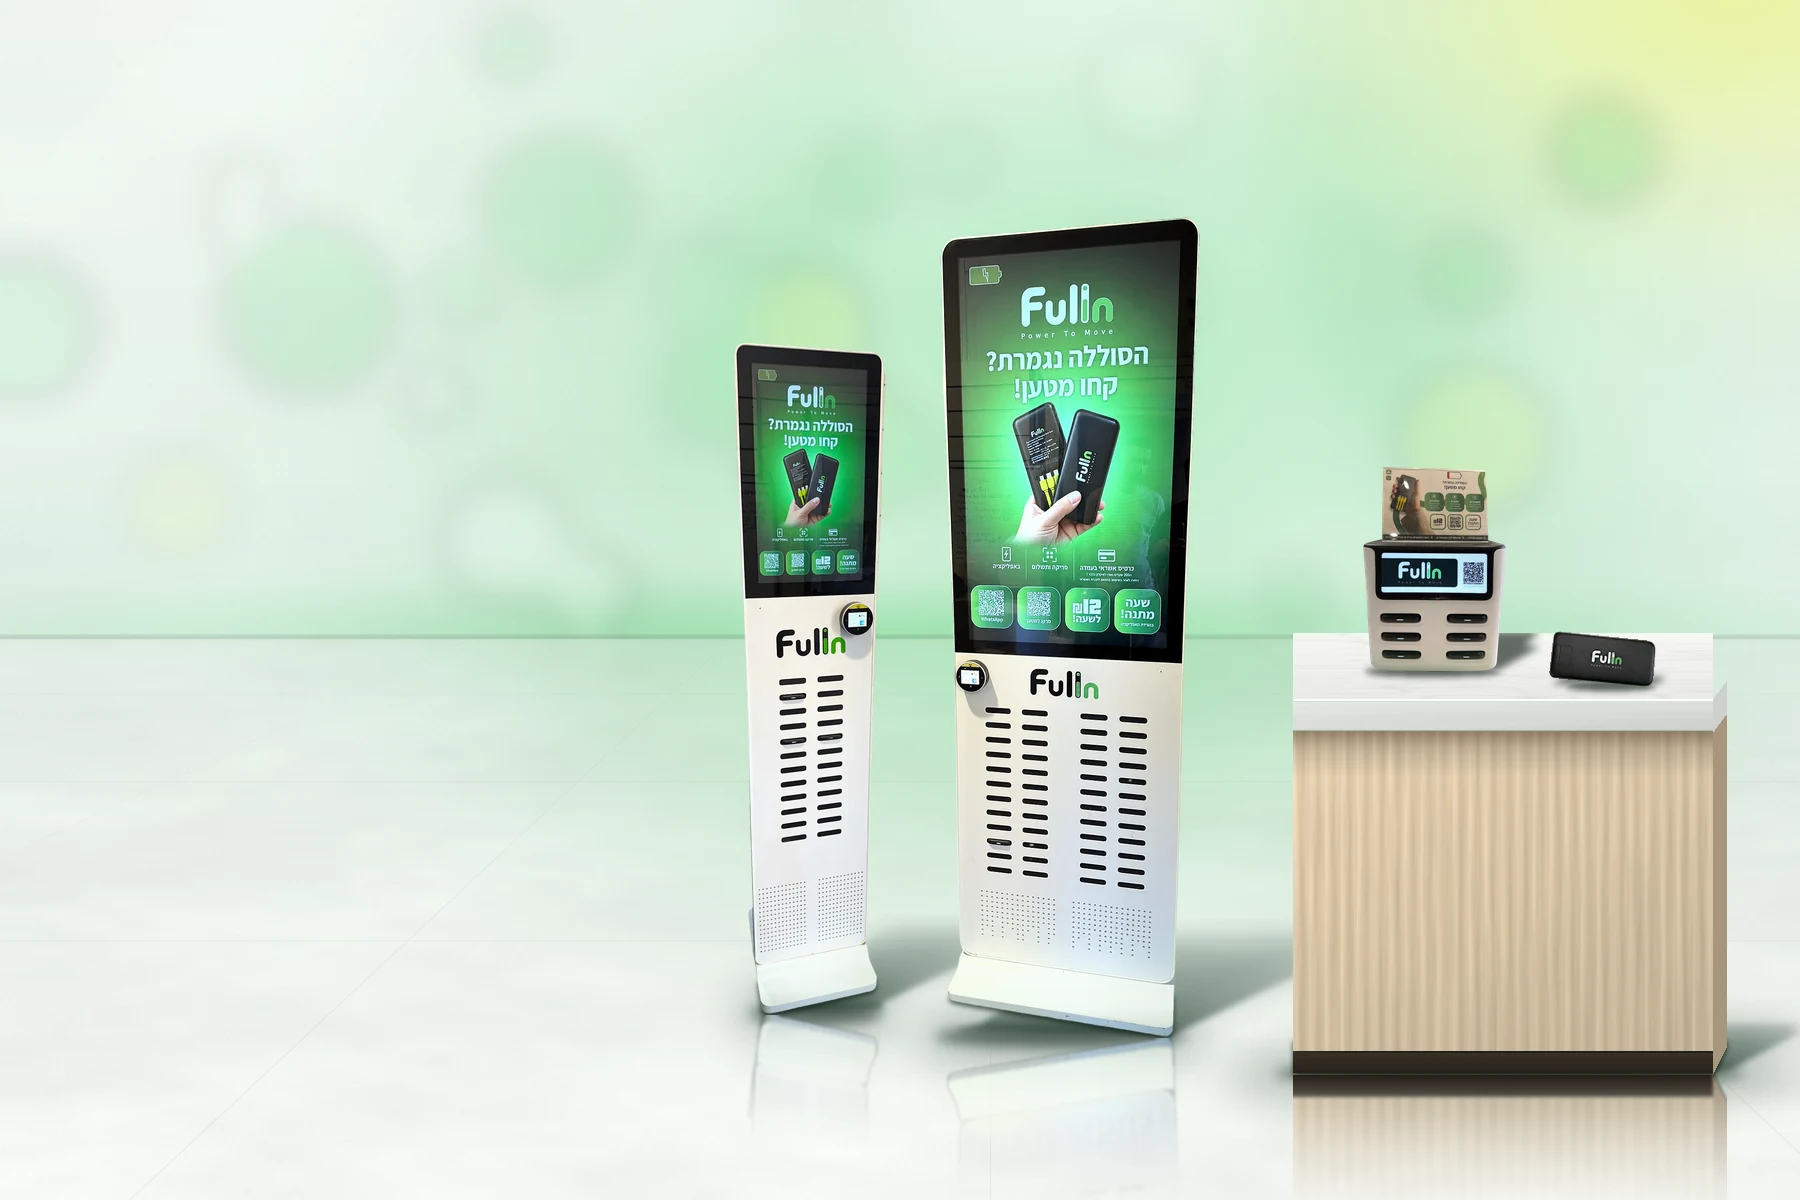
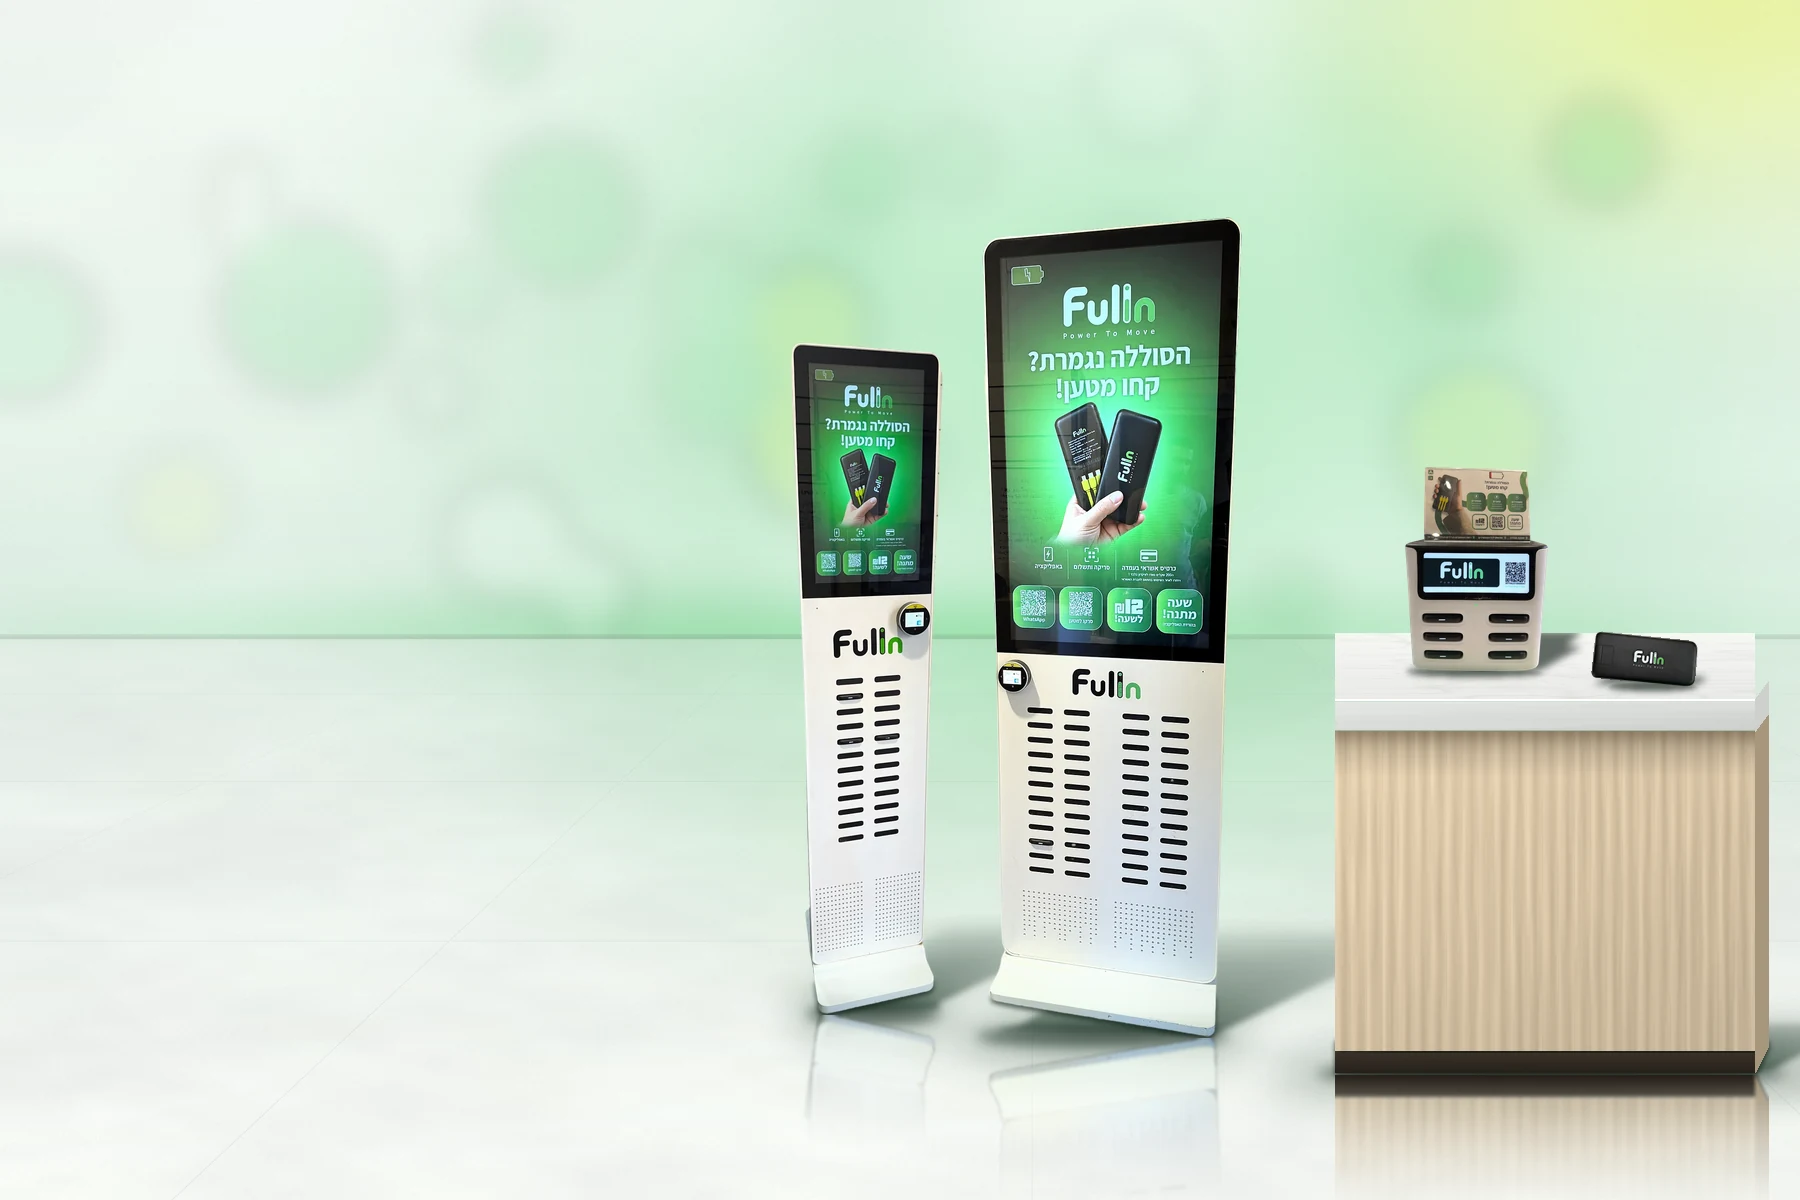
WIP: grounded hero and network cards
Claude-Session: https://claude.ai/code/session_01B8ZM9s4HvvSroEMfWVw26Q

Changed region(s): [[0.4044, 0.185, 1.0, 0.9867]]

diff --git a/new-site/css/hero.css b/new-site/css/hero.css
@@ -99,11 +99,11 @@
    One composed image per scene: shared floor + wall + key light, grounded products.
    Motion = transform/opacity only: slow zoom of the scene (anchored on the floor), counter-drifting bokeh, pulsing screen glow.
    =================================================================== */
-.hero__stage { position: relative; container-type: size; order: 2; align-self: stretch; inline-size: 100vw; margin-inline: calc(50% - 50vw); margin-block: .5rem -2.4rem; aspect-ratio: 1000 / 1010; overflow: hidden;
+.hero__stage { position: relative; container-type: size; order: 2; align-self: stretch; inline-size: 100vw; margin-inline: calc(50% - 50vw); margin-block: -1.2rem -2.4rem; aspect-ratio: 1000 / 960; overflow: hidden; pointer-events: none;
   -webkit-mask-image: linear-gradient(180deg, transparent 0, #000 14%, #000 86%, transparent 100%); mask-image: linear-gradient(180deg, transparent 0, #000 14%, #000 86%, transparent 100%); }
-.hero--b .hero__stage { aspect-ratio: 4 / 5; }
+@media (max-width: 959px) { .hero--b .hero__stage { aspect-ratio: 4 / 5; } }
 .scene { --ar: 1.5; position: absolute; inset-block-end: 0; inset-inline-end: 0; inline-size: max(100cqw, calc(100cqh * var(--ar))); aspect-ratio: var(--ar); }
-.scene--a { --ar: .990; }
+.scene--a { --ar: 1.0417; }
 .scene--b { --ar: .8; inline-size: 100cqw; }
 .hero:not(.hero--b) .scene--b, .hero--b .scene--a { display: none; }
 .scene__zoom { position: absolute; inset: 0; transform-origin: 50% 88%; animation: scenezoom 34s ease-in-out infinite alternate; will-change: transform; }
@@ -137,13 +137,17 @@
 .scene--b .scene__fade { position: absolute; inset: 0; -webkit-mask-image: linear-gradient(to left, transparent 0, #000 30%); mask-image: linear-gradient(to left, transparent 0, #000 30%); }
 :root[dir="ltr"] .scene--b .scene__fade { -webkit-mask-image: linear-gradient(to right, transparent 0, #000 30%); mask-image: linear-gradient(to right, transparent 0, #000 30%); }
 .fx--scrb { inset-inline-start: calc(var(--b-cx) - 13%); inset-block-start: calc(var(--b-top) + 2%); inline-size: 26%; block-size: 22%; border-radius: 12%; }
-.scene__badge { inset-block-start: auto; inset-block-end: 17%; inset-inline-start: auto; inset-inline-end: 4%; z-index: 3; }
+.scene .scene__badge { inset-block-start: auto; inset-block-end: 17%; inset-inline-start: auto; inset-inline-end: 4%; z-index: 3; }
 .hero--b .hero__glow { opacity: .65; }
 
 @media (min-width: 960px) {
-  .hero__stage { position: absolute; inset: 0; z-index: -1; inline-size: auto; margin: 0; aspect-ratio: auto; overflow: hidden; -webkit-mask-image: linear-gradient(180deg, #000 0, #000 88%, transparent 100%); mask-image: linear-gradient(180deg, #000 0, #000 88%, transparent 100%); }
-  .scene--a { --ar: 1.5; }
-  .scene--b { --ar: .8; inline-size: auto; block-size: 100cqh; inset-inline-end: 2%; }
-  .scene__badge { inset-block-end: 14%; }
+  .hero__stage { position: absolute; inset: 0; z-index: -1; inline-size: auto; margin: 0; aspect-ratio: auto; overflow: hidden; -webkit-mask-image: linear-gradient(180deg, transparent 0, #000 16%, #000 90%, transparent 100%); mask-image: linear-gradient(180deg, transparent 0, #000 16%, #000 90%, transparent 100%); }
+  .scene--a { --ar: 1.5; inline-size: 100cqw; }
+  .scene--b { --ar: .8; inline-size: auto; block-size: 92cqh; inset-inline-end: 0; -webkit-mask-image: linear-gradient(180deg, transparent 0, #000 10%); mask-image: linear-gradient(180deg, transparent 0, #000 10%); }
+  .scene .scene__badge { inset-block-end: 14%; }
 }
 @media (prefers-reduced-motion: reduce) { .scene__zoom, .bk, .fx { animation: none !important; } .fx--scr { opacity: .5; } }
+
+@media (min-width: 960px) { .hero__title { font-size: clamp(3.4rem, 1rem + 4.6vw, 5.2rem); } }
+
+@media (max-width: 959px) { .hero__eyebrow, .hero__title, .hero__sub, .hero__cta { position: relative; z-index: 2; } }

diff --git a/new-site/css/scene-pos.css b/new-site/css/scene-pos.css
@@ -1,5 +1,5 @@
 /* generated by tools/compose.py scenes: screen-glow positions, percent of each hero scene image */
-:root{--a-t48x:40.56%;--a-t48y:32.43%;--a-t48w:21.67%;--a-t48h:42.37%;--a-t24x:54.97%;--a-t24y:40.82%;--a-t24w:12.75%;--a-t24h:34.72%;--a-floory:86.25%;}
-:root[dir="ltr"]{--a-t48x:59.44%;--a-t48y:32.43%;--a-t48w:21.67%;--a-t48h:42.37%;--a-t24x:44.97%;--a-t24y:40.82%;--a-t24w:12.75%;--a-t24h:34.72%;--a-floory:86.25%;}
-@media (max-width:959px){:root,:root[dir="ltr"]{--a-t48x:62.50%;--a-t48y:36.51%;--a-t48w:31.20%;--a-t48h:40.27%;--a-t24x:83.25%;--a-t24y:44.39%;--a-t24w:18.45%;--a-t24h:33.03%;--a-floory:87.62%;}}
+:root{--a-t48x:38.22%;--a-t48y:32.43%;--a-t48w:21.67%;--a-t48h:42.37%;--a-t24x:51.81%;--a-t24y:40.82%;--a-t24w:12.75%;--a-t24h:34.72%;--a-floory:86.25%;}
+:root[dir="ltr"]{--a-t48x:61.78%;--a-t48y:32.43%;--a-t48w:21.67%;--a-t48h:42.37%;--a-t24x:48.14%;--a-t24y:40.82%;--a-t24w:12.75%;--a-t24h:34.72%;--a-floory:86.25%;}
+@media (max-width:959px){:root,:root[dir="ltr"]{--a-t48x:62.50%;--a-t48y:34.77%;--a-t48w:31.20%;--a-t48h:42.37%;--a-t24x:82.05%;--a-t24y:43.06%;--a-t24w:18.45%;--a-t24h:34.75%;--a-floory:88.54%;}}
 :root{--b-cx:61.06%;--b-top:4.23%;}

diff --git a/new-site/index.html b/new-site/index.html
@@ -128,11 +128,11 @@
       <div class="scene scene--a">
         <div class="scene__zoom">
           <picture class="scene__pic scene__pic--rtl">
-            <source media="(max-width: 959px)" srcset="assets/hero/hero-a-m.webp" width="1000" height="1010">
+            <source media="(max-width: 959px)" srcset="assets/hero/hero-a-m.webp" width="1000" height="960">
             <img src="assets/hero/hero-a.webp" width="1800" height="1200" alt="" decoding="async" fetchpriority="high">
           </picture>
           <picture class="scene__pic scene__pic--ltr">
-            <source media="(max-width: 959px)" srcset="assets/hero/hero-a-m.webp" width="1000" height="1010">
+            <source media="(max-width: 959px)" srcset="assets/hero/hero-a-m.webp" width="1000" height="960">
             <img src="assets/hero/hero-a-ltr.webp" width="1800" height="1200" alt="" decoding="async" loading="lazy">
           </picture>
           <i class="fx fx--halo fx--halo48"></i><i class="fx fx--halo fx--halo24"></i>

diff --git a/new-site/_partials/hero.html b/new-site/_partials/hero.html
@@ -48,11 +48,11 @@
       <div class="scene scene--a">
         <div class="scene__zoom">
           <picture class="scene__pic scene__pic--rtl">
-            <source media="(max-width: 959px)" srcset="assets/hero/hero-a-m.webp" width="1000" height="1010">
+            <source media="(max-width: 959px)" srcset="assets/hero/hero-a-m.webp" width="1000" height="960">
             <img src="assets/hero/hero-a.webp" width="1800" height="1200" alt="" decoding="async" fetchpriority="high">
           </picture>
           <picture class="scene__pic scene__pic--ltr">
-            <source media="(max-width: 959px)" srcset="assets/hero/hero-a-m.webp" width="1000" height="1010">
+            <source media="(max-width: 959px)" srcset="assets/hero/hero-a-m.webp" width="1000" height="960">
             <img src="assets/hero/hero-a-ltr.webp" width="1800" height="1200" alt="" decoding="async" loading="lazy">
           </picture>
           <i class="fx fx--halo fx--halo48"></i><i class="fx fx--halo fx--halo24"></i>

diff --git a/new-site/tools/compose.py b/new-site/tools/compose.py
@@ -130,7 +130,7 @@ def lineup(room, s, ox, base48, mirror=False, W=1800, with_pb=True):
     out['counter'] = (cx, ytop, Lc.width, Lc.height)
     # shadows of both towers fall right/back: draw far-to-near so nothing is covered wrongly: 24 (back) -> 48 -> counter
     r24 = h24 / t24.height; i24 = t24.resize((int(t24.width * r24), h24), Image.LANCZOS)
-    b24 = base48 - int(23 * s); x24 = int(X(960) - i24.width / 2)
+    b24 = base48 - int(23 * s); x24 = int(X(945) - i24.width / 2)
     r48 = h48 / t48.height; i48 = t48.resize((int(t48.width * r48), h48), Image.LANCZOS)
     x48 = int(X(700) - i48.width / 2)
     order = [('t24', i24, x24, b24), ('t48', i48, x48, base48)]
@@ -144,9 +144,9 @@ def lineup(room, s, ox, base48, mirror=False, W=1800, with_pb=True):
 
 def hero_a(W=1800, H=1200, mirror=False, mobile=False):
     if mobile:
-        W, H = 1000, 1010; s = .80; ox = 65; base48 = 885
+        W, H = 1000, 960; s = .80; ox = 65; base48 = 850
     else:
-        s = 1.0; ox = 30; base48 = 1035
+        s = 1.0; ox = -12; base48 = 1035
     h48 = int(H48_D * s); cam = 1.4
     y_h = base48 - h48 * cam / 1.8
     wall_y = int(base48 - (base48 - y_h) * .62) if not mobile else int(base48 - (base48 - y_h) * .66)
@@ -206,6 +206,28 @@ def hero_b():
     a = a * (1 - np.clip(dd - .5, 0, 1)[..., None] * .22)
     return Image.fromarray(np.clip(a, 0, 255).astype('uint8'), 'RGB'), dict(cx=(cx - 200) / 1248 * 100, top=(y - 40) / 1560 * 100)
 
+def card(kind):
+    """network cards 1000x1250: same camera, same wall/floor line (wall_y), same key light, same counter material."""
+    W, H = 1000, 1250; wall_y = 800; base = 1135; h48 = 1010; cam = 1.4
+    y_h = base - h48 * cam / 1.8
+    room = SC.Room(W, H, wall_y, vp_x=500, horizon_y=y_h, f=1100, cam=cam, glow_cx=500, glow_cy=wall_y * .50, glow_rx=W * .62,
+                   seed={'6': 31, '24': 32, '48': 33}[kind], wash=1.0)
+    if kind == '6':
+        s = 1.38
+        L, head = build_counter(s, items='slot+pb', w=400)
+        b = base + 20; room.ground(L, int(500 - L.width / 2), b - L.height, b, strength=1.05, refl=.07, shadow_len=.85)
+    else:
+        t = SC.grade(SC.defringe(SC.real('station-' + kind)))
+        h = h48 if kind == '48' else int(h48 * .85 * .985)
+        r = h / t.height; im = t.resize((int(t.width * r), h), Image.LANCZOS)
+        room.ground(im, int(500 - im.width / 2), base - h, base, strength=1.0, refl=.10, shadow_len=1.0)
+    room.vignette(.05)
+    return room.canvas
+
+def render_cards():
+    for k in ('6', '24', '48'):
+        save_webp(card(k), outp('card-%s.webp' % k), target_kb=140)
+
 def render_scenes():
     res = {}
     for name, kw in (('hero-a', {}), ('hero-a-ltr', dict(mirror=True)), ('hero-a-m', dict(mobile=True))):
@@ -225,13 +247,9 @@ def render_scenes():
     open(os.path.join(root, 'css', 'scene-pos.css'), 'w').write(css)
 
 if __name__=='__main__' and 'scenes' in sys.argv:
-    render_scenes(); sys.exit(0)
+    render_scenes(); render_cards(); sys.exit(0)
+if __name__=='__main__' and 'cards' in sys.argv:
+    render_cards(); sys.exit(0)
 
 if __name__=='__main__':
-    s6,s24,s48=[finish(real(n)) for n in ('station-6','station-24','station-48')]
-    TOP6=H-400
-    bg=counter(backdrop(),TOP6,x0=130,x1=W-130); save(place(bg,s6,640,TOP6+2,refl=0),'card-6')
-    save(place(backdrop(),s24,865,H-175),'card-24')
-    save(place(backdrop(warm=1),s48,1010,H-175),'card-48')
-    save(backdrop(),'hero-backdrop')
-    save_hero(s48,'real-48',1000); save_hero(s24,'real-24',900); save_hero(s6,'real-6',620)
+    render_scenes(); render_cards()
